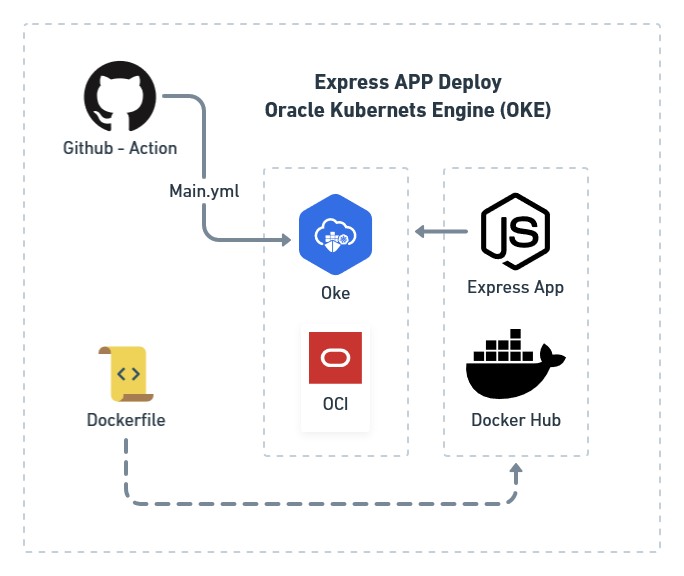
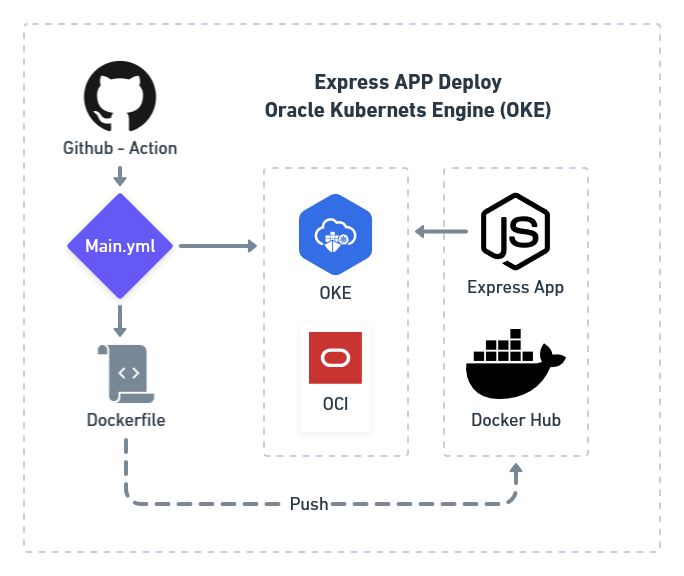
readme updated, push to docker hub

Changed region(s): [[0.0921, 0.1562, 0.4298, 0.7188], [0.4298, 0.8438, 0.4912, 0.9062], [0.4605, 0.5, 0.5219, 0.5312]]

diff --git a/README.md b/README.md
@@ -1,8 +1,28 @@
 # Github Actions setup to Deploy Node Express App in Oracle Cloud Infrastructure (OCI) - OKE
 
-This repo contains the min requeriments to deploy an `Node Express Application ` in `Oracle Kubernetes Engine (OKE)` and the automation pipeline with github actions.
+[![Deploy to OKE OCI](https://github.com/pavelsjo/node-express-github-actions-oci-oke/actions/workflows/main.yml/badge.svg?branch=main)](https://github.com/pavelsjo/node-express-github-actions-oci-oke/actions/workflows/main.yml)
+
+This repo contains the min requeriments to deploy an `Node Express Application` in `Oracle Kubernetes Engine (OKE)` and the automation pipeline with `github actions`.
 
 ![img](./media/diagram.github-actions-oke.png)
+
+## Setup
+
+- Create or use an image - `Docker HUB or OCI Contanier Registry`.
+  - For this example [Express App](https://hub.docker.com/r/pavelsjo/node-web-app).
+- Create or use an existing [API KEY](https://youtu.be/LMvYOSkXF1k?t=271) - `OCI`.
+- [Create a cluster](https://docs.oracle.com/en/learn/container_engine_kubernetes/#create-kubernetes-cluster) - `OCI`.
+- Setup your [repository](https://github.com/pavelsjo/node-express-github-actions-oci-oke) and [actions](https://github.com/pavelsjo/node-express-github-actions-oci-oke/blob/main/.github/workflows/main.yml) - `Github`.
+- Create [environment secrets](https://docs.github.com/es/actions/security-guides/encrypted-secrets) - `Github`.
+  - **DOCKER_USERNAME**.
+  - **DOCKER_PASSWORD**.
+  - **OCI_USER_OCID**.
+  - **OCI_FINGERPRINT**.
+  - **OCI_PASSPHRASE** - [example](https://youtu.be/LMvYOSkXF1k?t=192).
+  - **OCI_TENANCY_OCID**.
+  - **OCI_REGION**.
+  - **OKE_OCID** - [example](https://youtu.be/U4vJFUpBqNM?t=164).
+
 
 ## References
 
